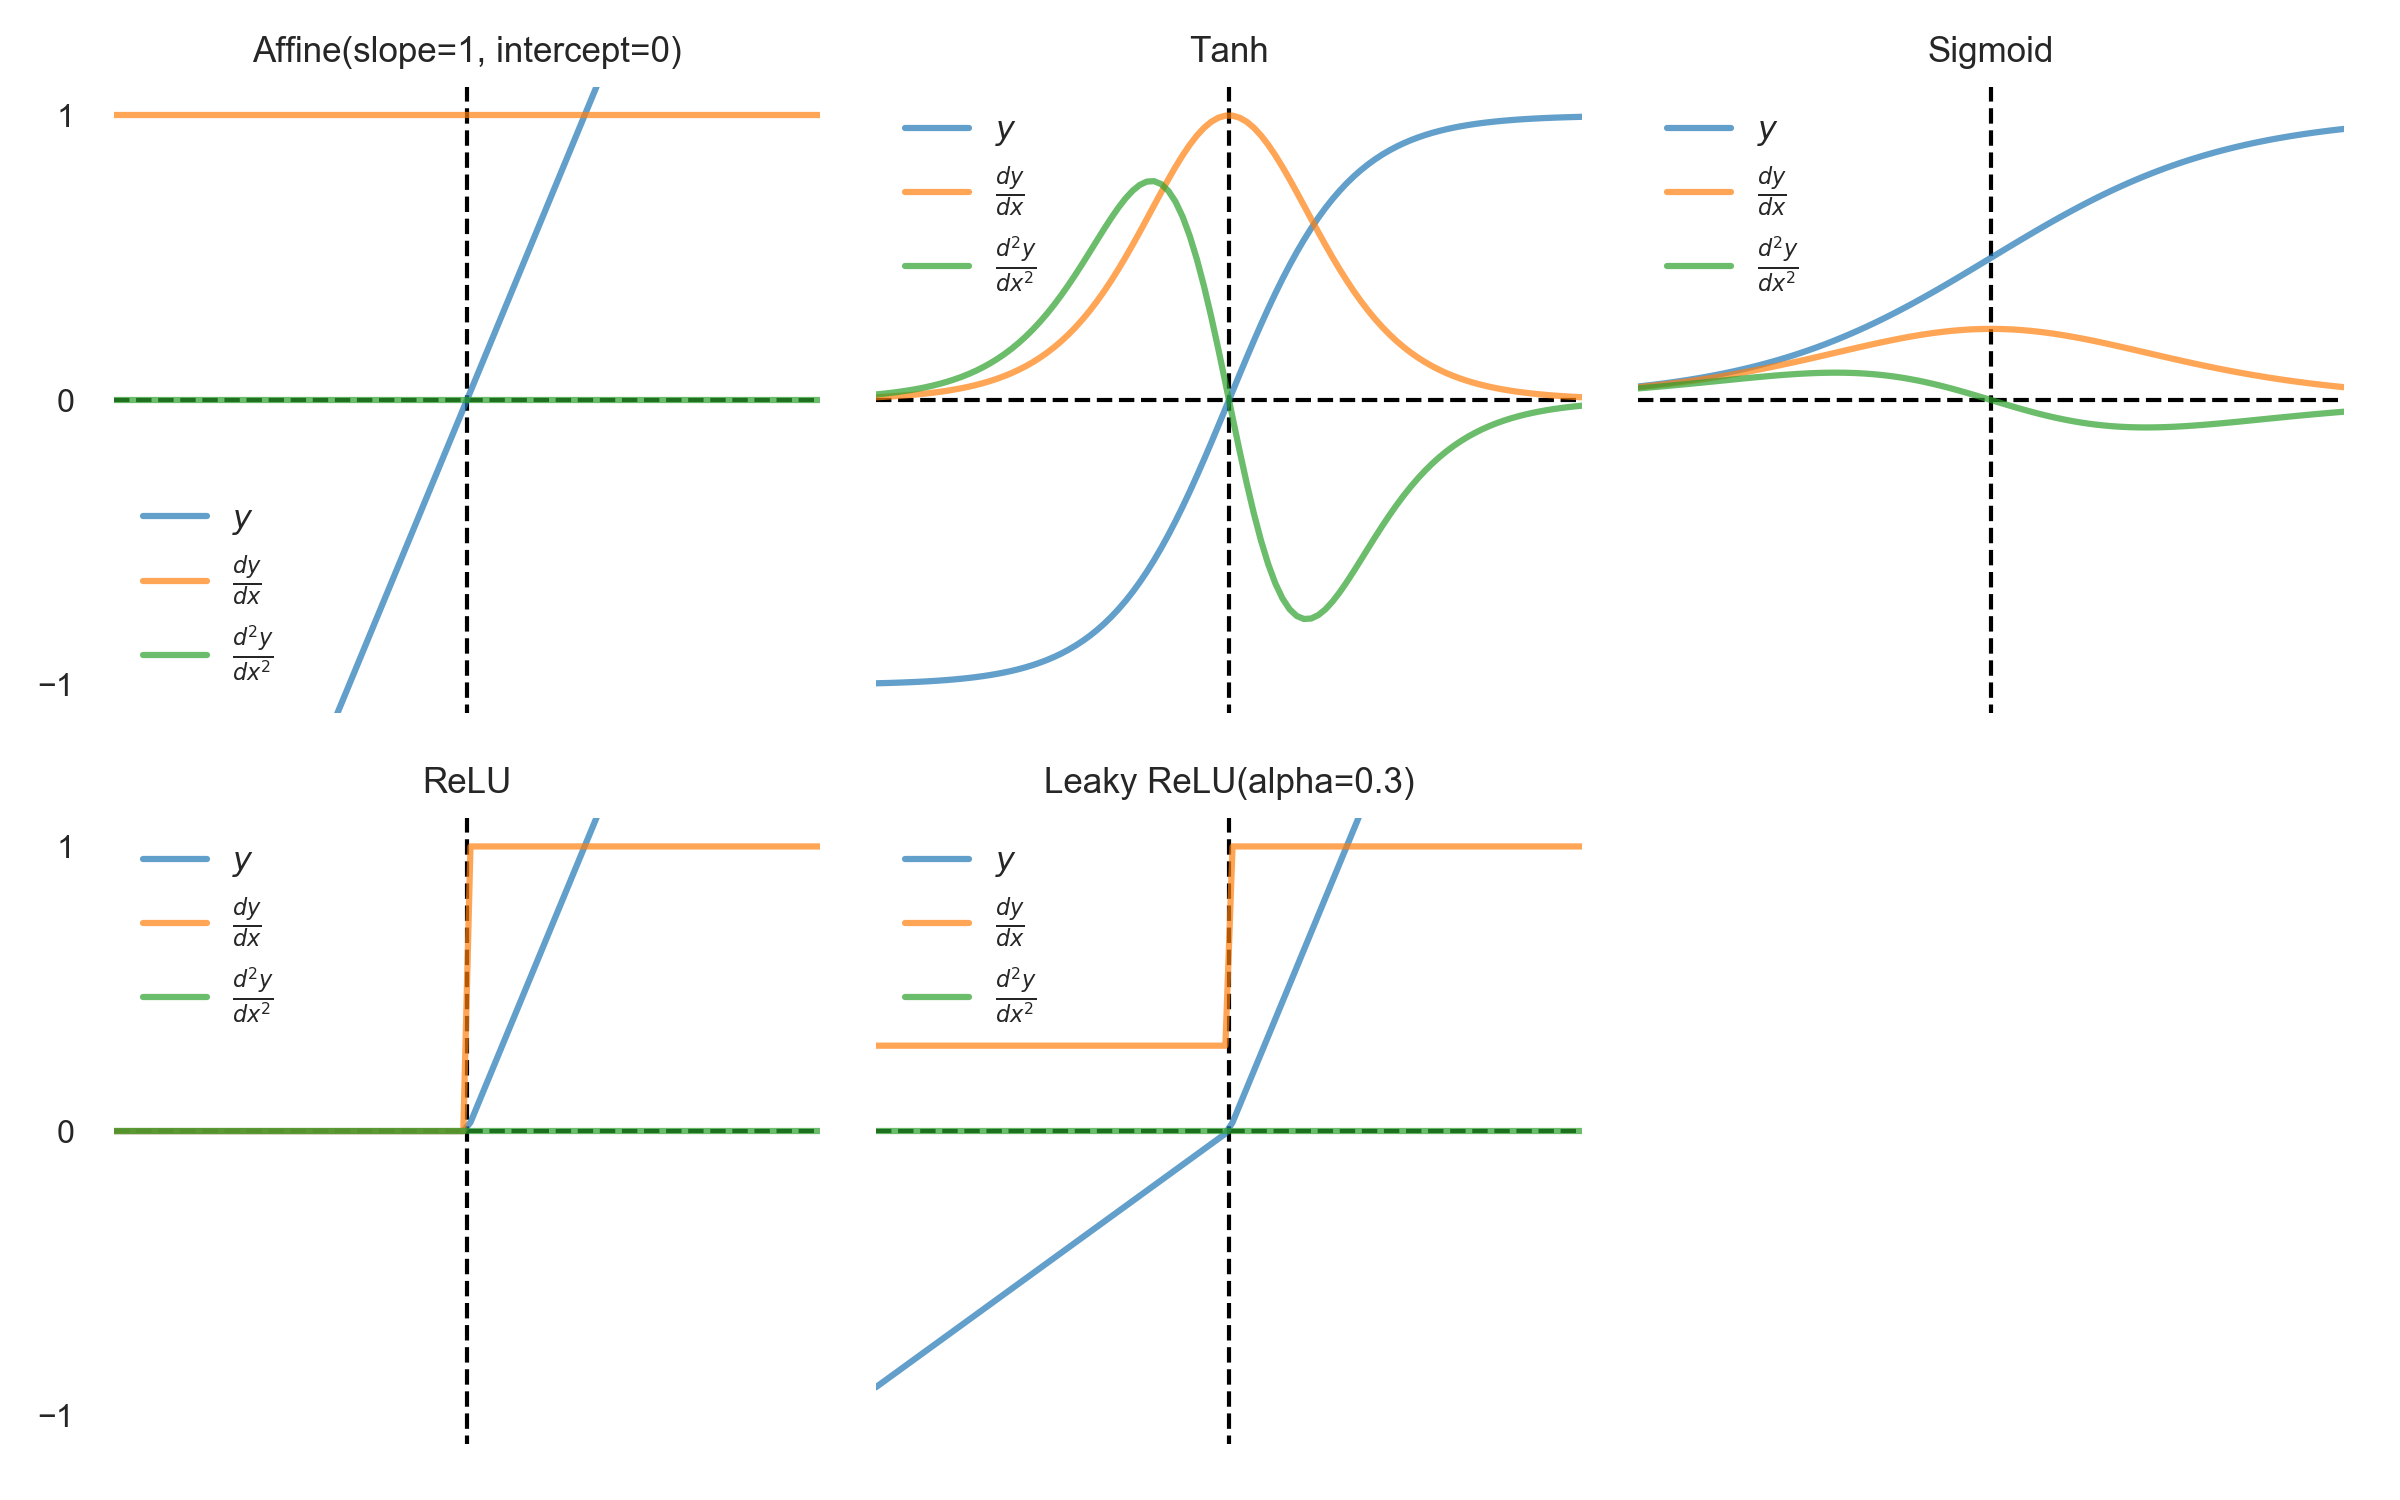
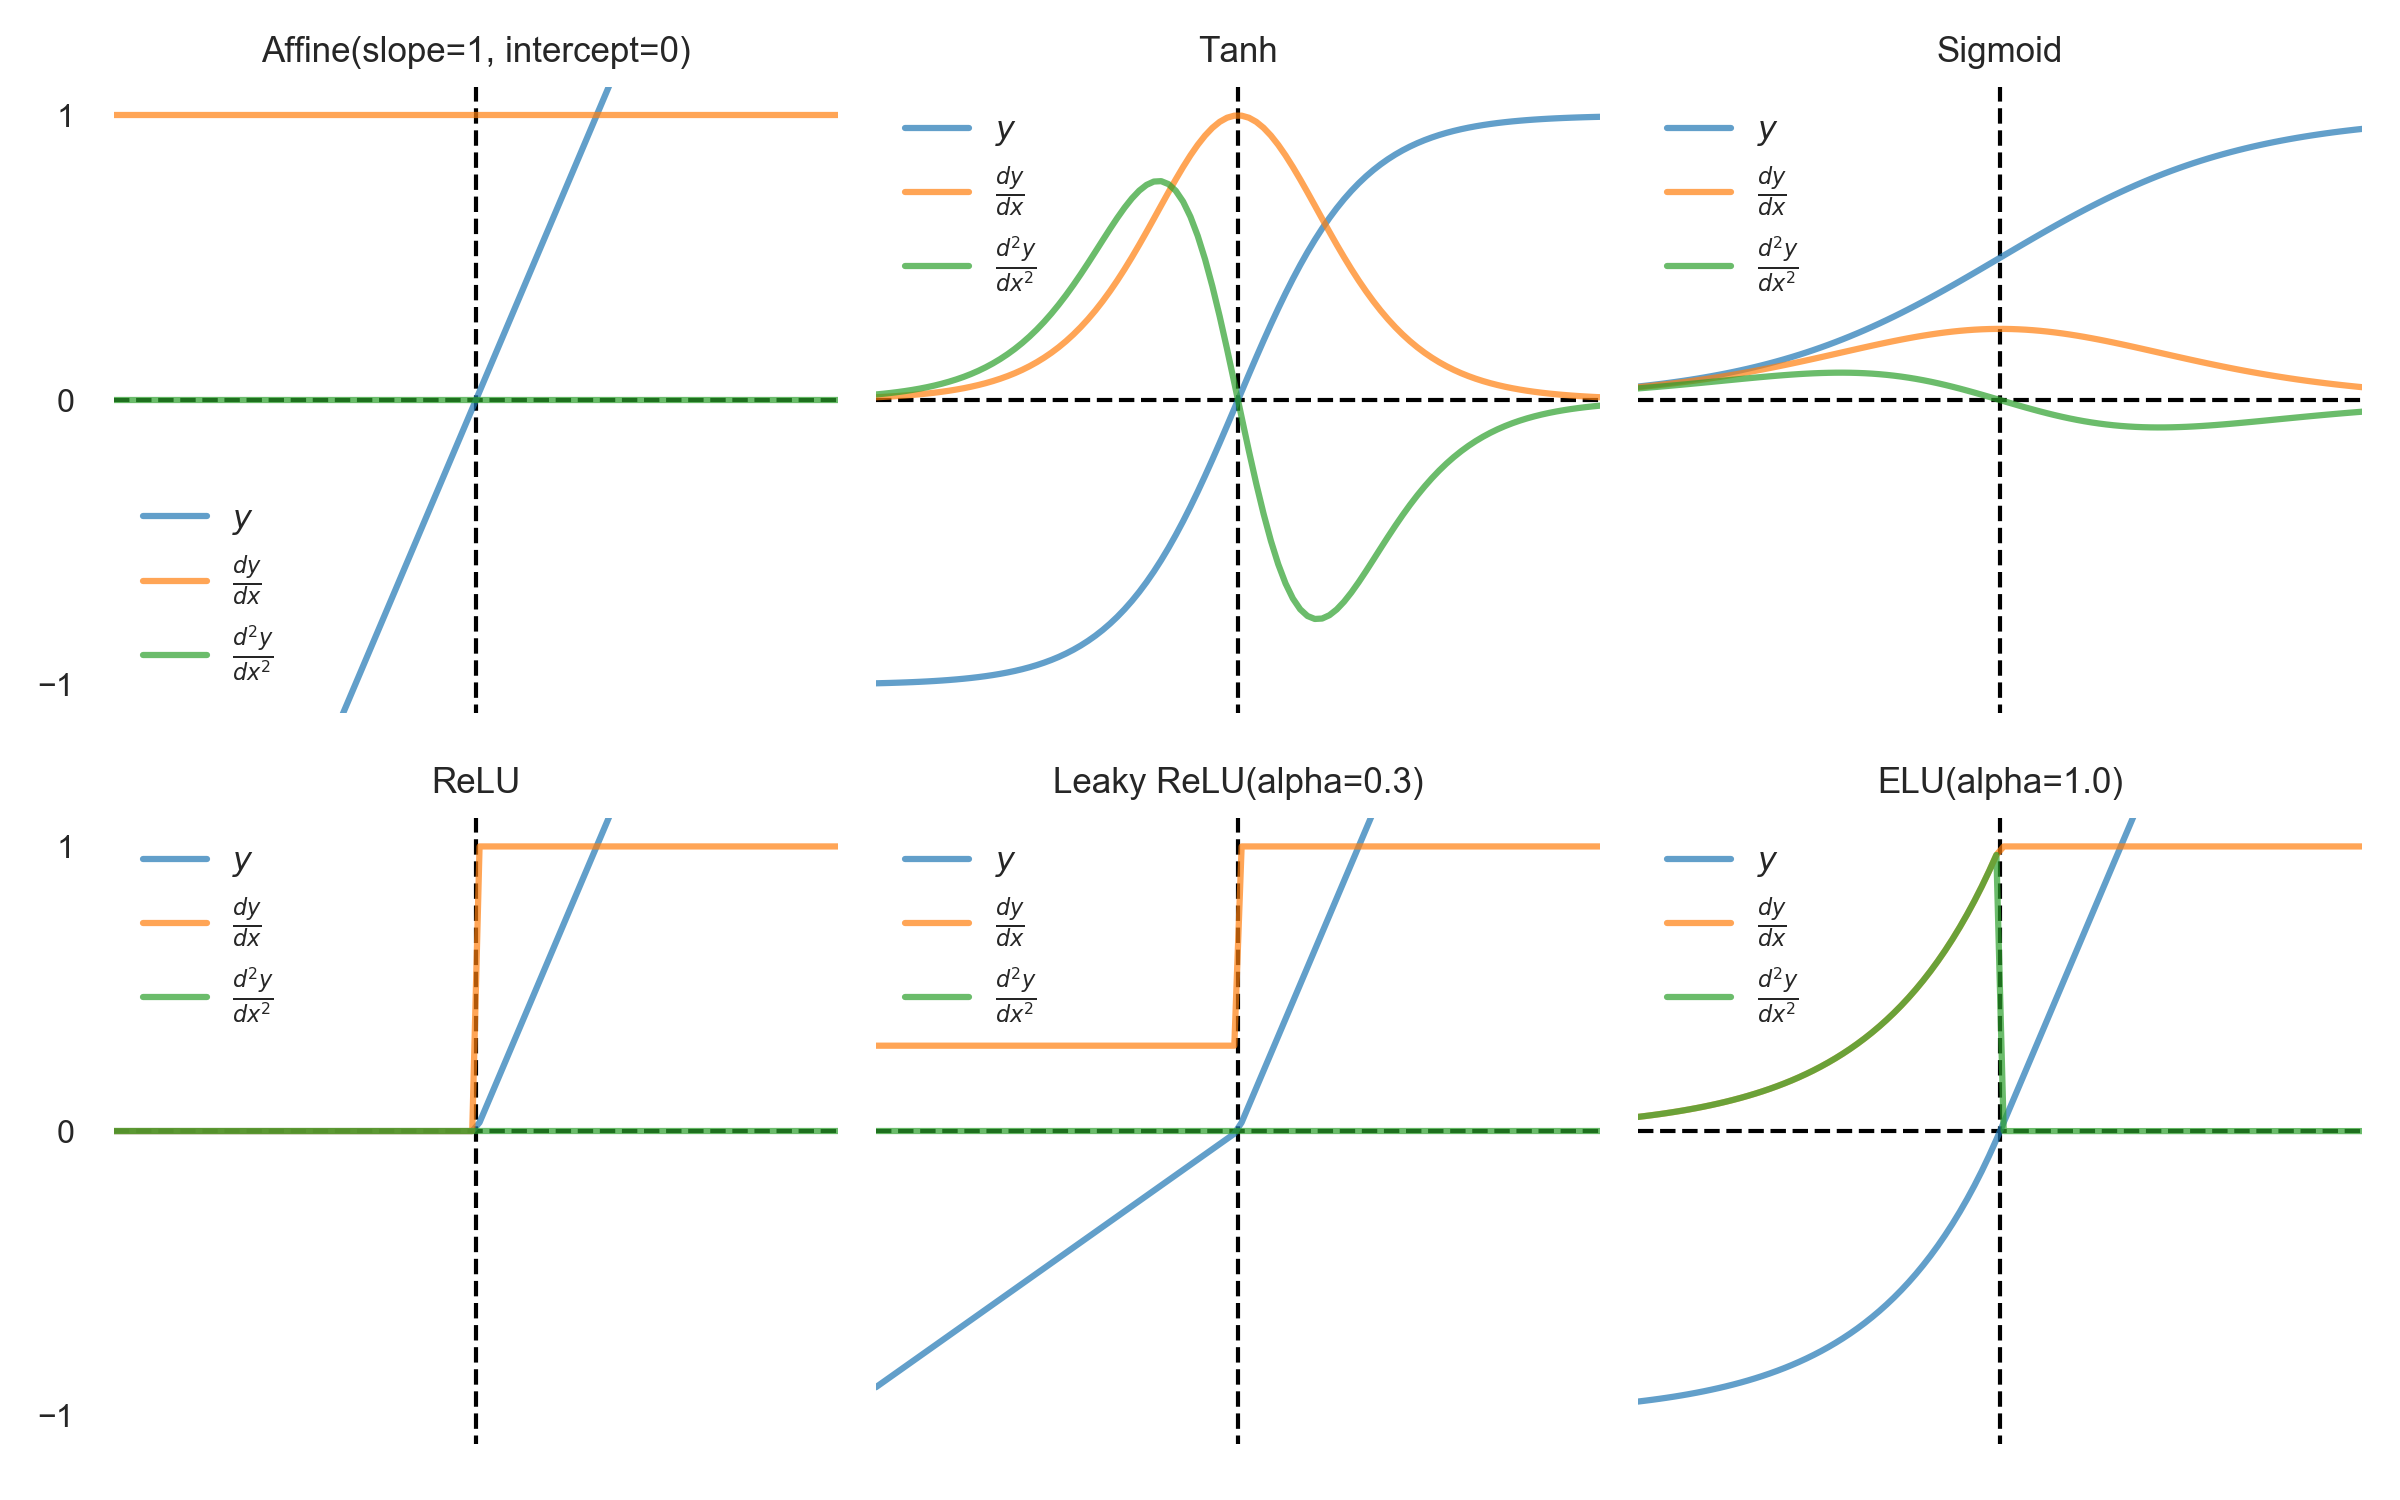
add ELU activation to plot

diff --git a/neural_nets/activations/tests.py b/neural_nets/activations/tests.py
@@ -10,14 +10,14 @@ import seaborn as sns
 sns.set_style("white")
 sns.set_context("notebook", font_scale=0.7)
 
-from activations import Affine, ReLU, LeakyReLU, Tanh, Sigmoid
+from activations import Affine, ReLU, LeakyReLU, Tanh, Sigmoid, ELU
 
 
 def plot_activations():
     fig, axes = plt.subplots(2, 3, sharex=True, sharey=True)
-    fns = [Affine(), Tanh(), Sigmoid(), ReLU(), LeakyReLU()]
+    fns = [Affine(), Tanh(), Sigmoid(), ReLU(), LeakyReLU(), ELU()]
     for ax, fn in zip(axes.flatten(), fns):
-        X = np.linspace(-3, 3, 100).astype(float).reshape(100,1)
+        X = np.linspace(-3, 3, 100).astype(float).reshape(100, 1)
         ax.plot(X, fn(X), label=r"$y$", alpha=0.7)
         ax.plot(X, fn.grad(X), label=r"$\frac{dy}{dx}$", alpha=0.7)
         ax.plot(X, fn.grad2(X), label=r"$\frac{d^2 y}{dx^2}$", alpha=0.7)
